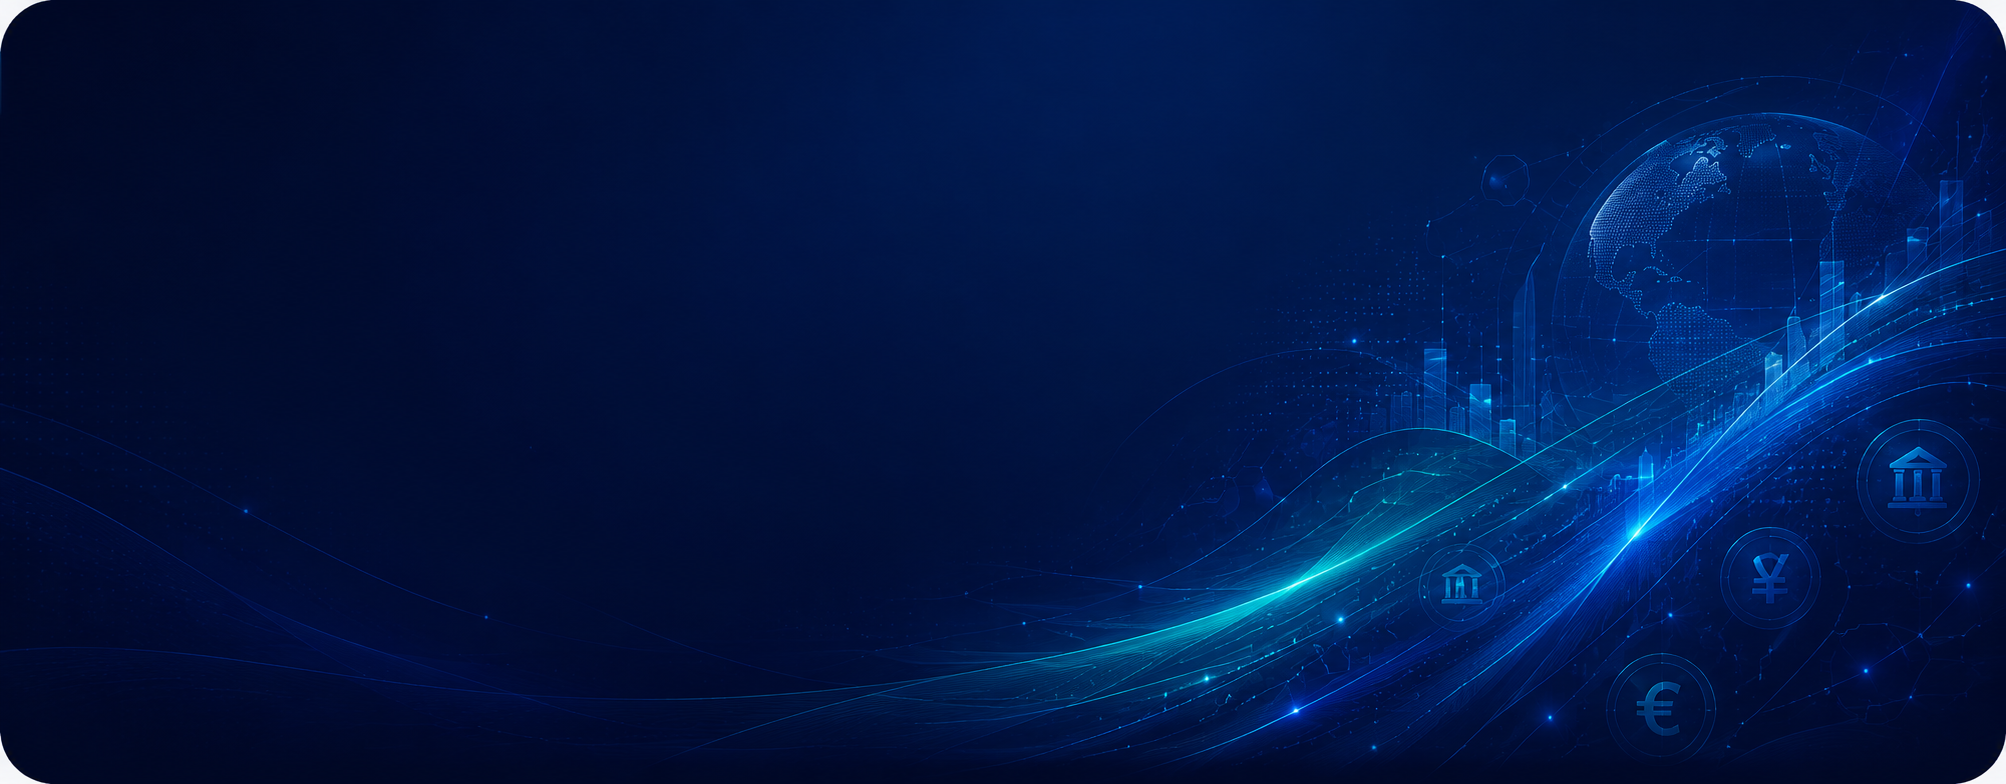
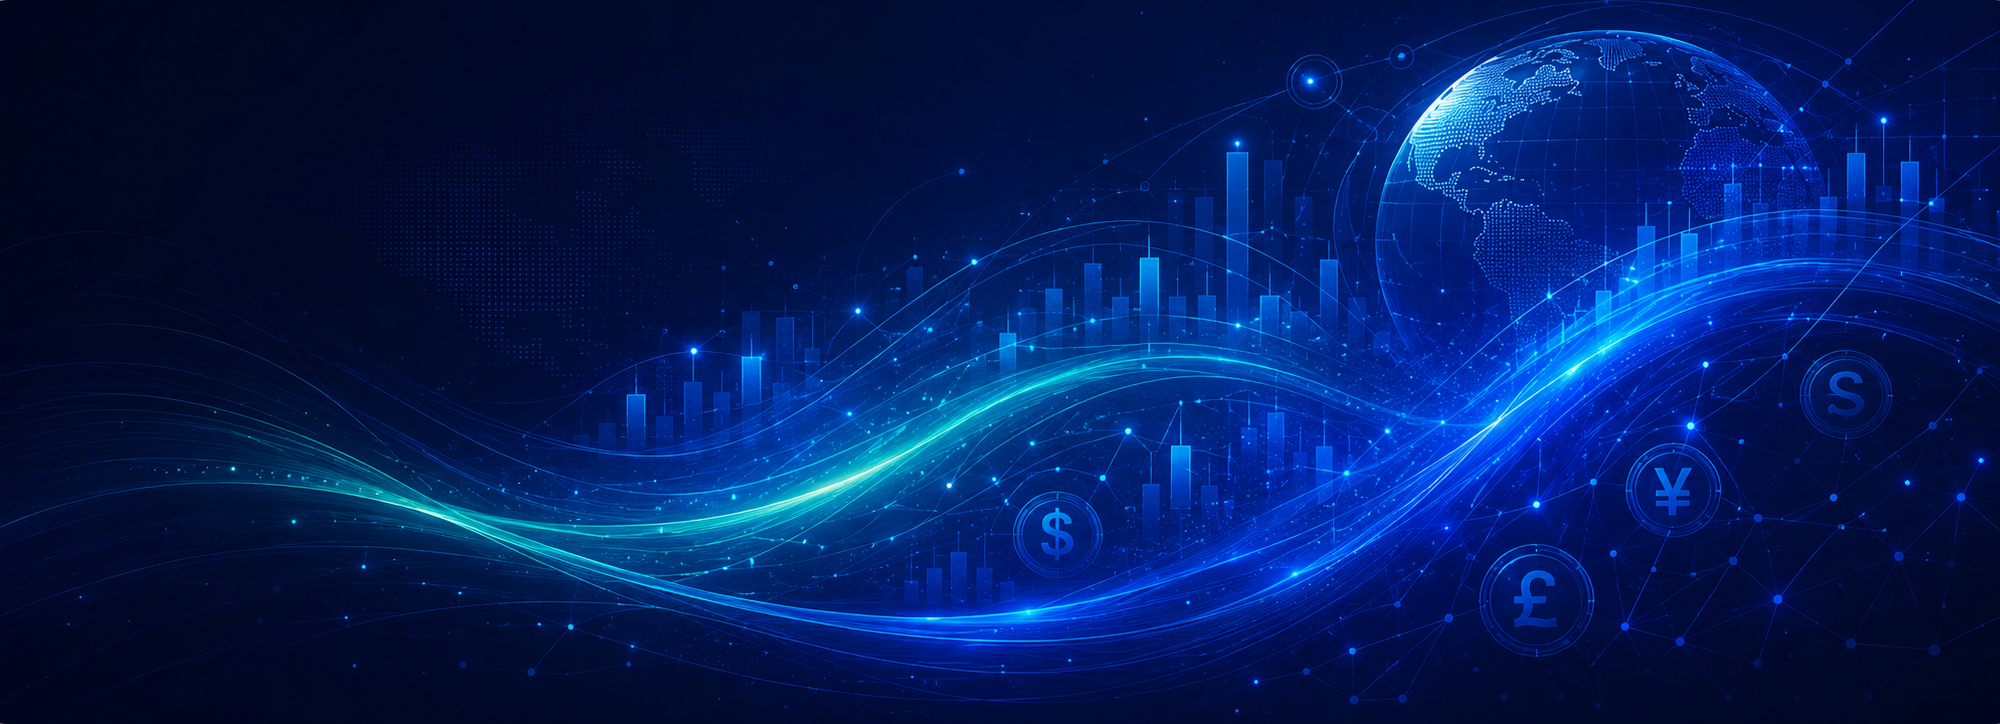
Add validation for registration and profile settings

diff --git a/SendPay.Web/wwwroot/css/app.css b/SendPay.Web/wwwroot/css/app.css
@@ -289,23 +289,25 @@ html, body { font-family: 'Be Vietnam Pro', -apple-system, BlinkMacSystemFont, '
 .sp-dash-logo-icon { width: 34px; height: 34px; border-radius: 8px; background: var(--red); display: flex; align-items: center; justify-content: center; font-weight: 800; font-size: 13px; color: white; }
 .sp-dash-logo-text { font-weight: 800; font-size: 16px; color: white; }
 .sp-dash-logo-text span { color: #FFD166; }
-.sp-dash-nav-links { display: flex; gap: 2px; padding-left: 1.5rem; border-left: 1px solid rgba(255,255,255,.09); }
+.sp-dash-nav-links { display: flex; align-items: center; gap: 0; padding-left: 1.5rem; border-left: 1px solid rgba(255,255,255,.09); }
 .sp-dash-nav-link { display: flex; align-items: center; gap: 7px; padding: 7px 15px; border-radius: 8px; font-size: 13px; font-weight: 600; color: rgba(255,255,255,.58); text-decoration: none; transition: all .2s ease; }
 .sp-dash-nav-link i { font-size: 13px; transition: transform .18s; }
 .sp-dash-nav-link:hover { background: rgba(255,255,255,.09); color: rgba(255,255,255,.9); }
 .sp-dash-nav-link:hover i { transform: translateY(-1px); }
 .sp-dash-nav-link.active { background: white; color: #0b1d4e; box-shadow: 0 2px 12px rgba(0,0,0,.25); }
-.sp-dash-nav-link.active i { color: var(--red); }
+.sp-dash-nav-link.active i { color: #1a4fd8; }
+.sp-nav-sep { width: 1px; height: 16px; background: rgba(255,255,255,.18); flex-shrink: 0; }
 .sp-dash-nav-right { margin-left: auto; display: flex; align-items: center; gap: 10px; }
 .sp-dash-user { display: flex; align-items: center; gap: 8px; font-size: 13px; font-weight: 500; color: rgba(255,255,255,.88); }
-.sp-dash-avatar { width: 34px; height: 34px; border-radius: 50%; background: linear-gradient(140deg, #51cf66, #0D7A4E); display: flex; align-items: center; justify-content: center; font-size: 12px; font-weight: 800; color: white; box-shadow: 0 2px 10px rgba(13,122,78,.5); flex-shrink: 0; }
+.sp-dash-avatar { width: 34px; height: 34px; border-radius: 50%; background: linear-gradient(140deg, #51cf66, #0D7A4E); display: flex; align-items: center; justify-content: center; font-size: 12px; font-weight: 800; color: white; box-shadow: 0 2px 10px rgba(13,122,78,.5); flex-shrink: 0; overflow: hidden; }
+.sp-nav-avatar-img { width: 34px; height: 34px; object-fit: cover; border-radius: 50%; display: block; }
 .sp-dash-logout { display: flex; align-items: center; gap: 7px; padding: 7px 15px; border-radius: 8px; background: rgba(255,255,255,.08); border: 1px solid rgba(255,255,255,.12); color: rgba(255,255,255,.8); font-size: 13px; font-weight: 600; cursor: pointer; font-family: inherit; transition: all .2s; }
 .sp-dash-logout:hover { background: rgba(208,0,31,.85); color: white; border-color: transparent; box-shadow: 0 4px 14px rgba(208,0,31,.4); }
 
 .sp-dash-content { max-width: 1280px; margin: 0 auto; width: 100%; padding: 2rem; flex: 1; }
 
 .sp-dash-top { display: grid; grid-template-columns: 1fr 320px; gap: 1.25rem; margin-bottom: 2rem; align-items: stretch; }
-.sp-dash-balance-card { background: url('/images/banner.png?v=2') center right/cover no-repeat, linear-gradient(135deg, #081428 0%, #0e2248 100%); border-radius: 18px; padding: 28px 32px; color: white; position: relative; overflow: hidden; min-height: 180px; display: flex; flex-direction: column; justify-content: space-between; }
+.sp-dash-balance-card { background: url('/images/banner.png?v=20260514b') center/cover no-repeat, linear-gradient(135deg, #081428 0%, #0e2248 100%); border-radius: 18px; padding: 28px 32px; color: white; position: relative; overflow: hidden; min-height: 180px; display: flex; flex-direction: column; justify-content: space-between; }
 .sp-dash-balance-card::before { content: ''; position: absolute; inset: 0; background: linear-gradient(100deg, rgba(5,12,30,.96) 0%, rgba(5,12,30,.88) 40%, rgba(5,12,30,.55) 65%, rgba(5,12,30,.1) 100%); pointer-events: none; }
 .sp-dash-bal-label { font-size: 11px; font-weight: 600; color: rgba(255,255,255,.9); margin-bottom: 12px; display: inline-flex; align-items: center; gap: 6px; background: rgba(255,255,255,.12); border: 1px solid rgba(255,255,255,.18); padding: 5px 13px; border-radius: 20px; position: relative; z-index: 1; width: fit-content; }
 .sp-dash-bal-amount { font-size: 44px; font-weight: 800; letter-spacing: -2px; margin-bottom: 10px; position: relative; z-index: 1; line-height: 1.1; }
@@ -501,16 +503,12 @@ html, body { font-family: 'Be Vietnam Pro', -apple-system, BlinkMacSystemFont, '
 /* ===== ADMIN PAGE ===== */
 .sp-admin-page { min-height: 100vh; background: var(--gray-bg); display: flex; flex-direction: column; }
 
-.sp-admin-nav { background: var(--navy); color: white; padding: 0 2rem; height: 60px; display: flex; align-items: center; gap: 1rem; position: sticky; top: 0; z-index: 100; }
+.sp-admin-nav { background: var(--navy); color: white; padding: 0 2rem; height: 60px; display: flex; align-items: center; gap: 1rem; position: sticky; top: 0; z-index: 100; border-bottom: 1px solid rgba(255,255,255,.07); }
 .sp-admin-nav .sp-admin-logo { display: flex; align-items: center; gap: 10px; text-decoration: none; }
-.sp-admin-nav .sp-admin-logo-icon { width: 34px; height: 34px; border-radius: 8px; background: var(--red); display: flex; align-items: center; justify-content: center; font-weight: 800; font-size: 13px; color: white; }
-.sp-admin-nav .sp-admin-logo-text { font-weight: 700; font-size: 16px; color: white; }
-.sp-admin-nav .sp-admin-logo-text span { color: #FFD166; }
-.sp-admin-nav .sp-admin-title { font-size: 13px; color: rgba(255,255,255,.5); margin-left: 4px; }
+.sp-admin-badge { display: inline-flex; align-items: center; gap: 5px; padding: 4px 10px; border-radius: 20px; background: rgba(220,38,38,.18); border: 1px solid rgba(220,38,38,.4); color: #fca5a5; font-size: 11px; font-weight: 700; letter-spacing: .4px; text-transform: uppercase; }
+.sp-admin-badge i { font-size: 10px; }
 .sp-admin-nav-right { margin-left: auto; display: flex; align-items: center; gap: 12px; }
-.sp-admin-nav-right .sp-admin-user { font-size: 13px; color: rgba(255,255,255,.7); }
-.sp-admin-logout { padding: 7px 14px; border-radius: var(--radius-sm); background: rgba(255,255,255,.1); border: 1px solid rgba(255,255,255,.2); color: white; font-size: 13px; font-weight: 600; cursor: pointer; font-family: inherit; transition: background .2s; }
-.sp-admin-logout:hover { background: rgba(255,255,255,.2); }
+.sp-admin-avatar { background: linear-gradient(140deg, #f59e0b, #dc2626) !important; }
 
 .sp-admin-content { flex: 1; max-width: 1200px; margin: 0 auto; width: 100%; padding: 2rem; }
 

diff --git a/SendPay.Web/wwwroot/js/sp-widgets.js b/SendPay.Web/wwwroot/js/sp-widgets.js
@@ -9,5 +9,20 @@ window.spWidgets = {
     },
     scrollChatToBottom: function (el) {
         if (el) el.scrollTop = el.scrollHeight;
+    },
+    lookupPostalCode: async function (zipcode) {
+        try {
+            const url = `https://zipcloud.ibsnet.co.jp/api/search?zipcode=${zipcode}`;
+            const res = await fetch(url);
+            if (!res.ok) return JSON.stringify({ error: 'HTTP ' + res.status });
+            const json = await res.json();
+            if (json.results && json.results.length > 0) {
+                const r = json.results[0];
+                return JSON.stringify({ prefecture: r.address1, city: r.address2 + r.address3 });
+            }
+            return JSON.stringify({ error: 'notfound' });
+        } catch (e) {
+            return JSON.stringify({ error: e.message });
+        }
     }
 };

diff --git a/SendPay.Web/wwwroot/index.html b/SendPay.Web/wwwroot/index.html
@@ -34,7 +34,7 @@
     </div>
     <script src="_content/MudBlazor/MudBlazor.min.js"></script>
     <script src="_framework/blazor.webassembly#[.{fingerprint}].js"></script>
-    <script src="js/sp-widgets.js"></script>
+    <script src="js/sp-widgets.js?v=20260514c"></script>
 </body>
 
 </html>

diff --git a/SendPay.Web/Services/Translations.cs b/SendPay.Web/Services/Translations.cs
@@ -245,6 +245,7 @@ public static class Translations
             ["required"]          = "必須",
             ["err_fill_all"]      = "必須項目をすべて入力してください。",
             ["err_pw_mismatch"]   = "パスワードが一致しません。",
+            ["err_pw_weak"]       = "パスワードは8文字以上で、大文字と特殊文字を含める必要があります。",
             ["err_select_country"]= "国籍・在留資格を選択してください。",
             ["err_select_doc"]    = "本人確認書類の種類を選択してください。",
             ["err_agree_all"]     = "すべての同意事項にチェックを入れてください。",
@@ -351,6 +352,7 @@ public static class Translations
             ["settings_kyc_success"]= "書類を提出しました。審査完了後にご連絡します。",
             ["settings_kyc_err_doc"]= "書類の種類を選択してください。",
             ["settings_kyc_err_front"]= "表面の画像をアップロードしてください。",
+            ["settings_kyc_err_back"] = "裏面の画像もアップロードしてください。",
             // Transfer purposes
             ["tr_purpose_1"]      = "家族への仕送り",
             ["tr_purpose_2"]      = "個人間の返済",
@@ -636,6 +638,7 @@ public static class Translations
             ["required"]          = "Bắt buộc",
             ["err_fill_all"]      = "Vui lòng điền đầy đủ thông tin bắt buộc.",
             ["err_pw_mismatch"]   = "Mật khẩu không khớp.",
+            ["err_pw_weak"]       = "Mật khẩu phải có ít nhất 8 ký tự, chứa 1 chữ hoa và 1 ký tự đặc biệt.",
             ["err_select_country"]= "Vui lòng chọn quốc tịch và tư cách lưu trú.",
             ["err_select_doc"]    = "Vui lòng chọn loại giấy tờ tùy thân.",
             ["err_agree_all"]     = "Vui lòng đồng ý tất cả các điều khoản.",
@@ -742,6 +745,7 @@ public static class Translations
             ["settings_kyc_success"]= "Đã gửi giấy tờ. Chúng tôi sẽ liên hệ sau khi xét duyệt xong.",
             ["settings_kyc_err_doc"]= "Vui lòng chọn loại giấy tờ.",
             ["settings_kyc_err_front"]= "Vui lòng tải lên mặt trước.",
+            ["settings_kyc_err_back"] = "Vui lòng tải lên cả mặt sau.",
             // Transfer purposes
             ["tr_purpose_1"]      = "Hỗ trợ gia đình",
             ["tr_purpose_2"]      = "Trả nợ cá nhân",
@@ -1027,6 +1031,7 @@ public static class Translations
             ["required"]          = "Required",
             ["err_fill_all"]      = "Please fill in all required fields.",
             ["err_pw_mismatch"]   = "Passwords do not match.",
+            ["err_pw_weak"]       = "Password must be at least 8 characters and include 1 uppercase letter and 1 special character.",
             ["err_select_country"]= "Please select nationality and visa status.",
             ["err_select_doc"]    = "Please select a document type.",
             ["err_agree_all"]     = "Please agree to all terms.",
@@ -1133,6 +1138,7 @@ public static class Translations
             ["settings_kyc_success"]= "Documents submitted. We will contact you after review.",
             ["settings_kyc_err_doc"]= "Please select a document type.",
             ["settings_kyc_err_front"]= "Please upload the front side image.",
+            ["settings_kyc_err_back"] = "Please also upload the back side image.",
             // Transfer purposes
             ["tr_purpose_1"]      = "Family Support",
             ["tr_purpose_2"]      = "Personal Repayment",
@@ -1418,6 +1424,7 @@ public static class Translations
             ["required"]          = "필수",
             ["err_fill_all"]      = "필수 항목을 모두 입력해주세요.",
             ["err_pw_mismatch"]   = "비밀번호가 일치하지 않습니다.",
+            ["err_pw_weak"]       = "비밀번호는 8자 이상이며 대문자 1개와 특수문자 1개를 포함해야 합니다.",
             ["err_select_country"]= "국적과 체류자격을 선택해주세요.",
             ["err_select_doc"]    = "본인확인 서류 종류를 선택해주세요.",
             ["err_agree_all"]     = "모든 동의 사항에 체크해주세요.",
@@ -1524,6 +1531,7 @@ public static class Translations
             ["settings_kyc_success"]= "서류를 제출했습니다. 심사 후 연락드리겠습니다.",
             ["settings_kyc_err_doc"]= "서류 종류를 선택하세요.",
             ["settings_kyc_err_front"]= "앞면 이미지를 업로드하세요.",
+            ["settings_kyc_err_back"] = "뒷면 이미지도 업로드하세요.",
             // Transfer purposes
             ["tr_purpose_1"]      = "가족 송금",
             ["tr_purpose_2"]      = "개인 간 상환",
@@ -1809,6 +1817,7 @@ public static class Translations
             ["required"]          = "必填",
             ["err_fill_all"]      = "请填写所有必填项。",
             ["err_pw_mismatch"]   = "两次密码不一致。",
+            ["err_pw_weak"]       = "密码须至少8个字符，包含1个大写字母和1个特殊字符。",
             ["err_select_country"]= "请选择国籍和在留资格。",
             ["err_select_doc"]    = "请选择证件类型。",
             ["err_agree_all"]     = "请同意所有条款。",
@@ -1915,6 +1924,7 @@ public static class Translations
             ["settings_kyc_success"]= "证件已提交，审核完成后我们将与您联系。",
             ["settings_kyc_err_doc"]= "请选择证件类型。",
             ["settings_kyc_err_front"]= "请上传正面图片。",
+            ["settings_kyc_err_back"] = "请同时上传背面图片。",
             // Transfer purposes
             ["tr_purpose_1"]      = "家庭汇款",
             ["tr_purpose_2"]      = "个人还款",

diff --git a/SendPay.Web/Program.cs b/SendPay.Web/Program.cs
@@ -17,6 +17,7 @@ var baseUri = string.IsNullOrWhiteSpace(apiBase)
 builder.Services.AddScoped(_ => new HttpClient { BaseAddress = baseUri });
 builder.Services.AddScoped<ApiService>();
 builder.Services.AddSingleton<LanguageService>();
+builder.Services.AddSingleton<UserStateService>();
 builder.Services.AddBlazoredLocalStorage();
 builder.Services.AddMudServices();
 

diff --git a/SendPay.Web/Services/UserStateService.cs b/SendPay.Web/Services/UserStateService.cs
@@ -1,0 +1,13 @@
+namespace SendPay.Web.Services;
+
+public class UserStateService
+{
+    public string AvatarData { get; private set; } = "";
+    public event Action? OnChanged;
+
+    public void SetAvatar(string data)
+    {
+        AvatarData = data;
+        OnChanged?.Invoke();
+    }
+}
